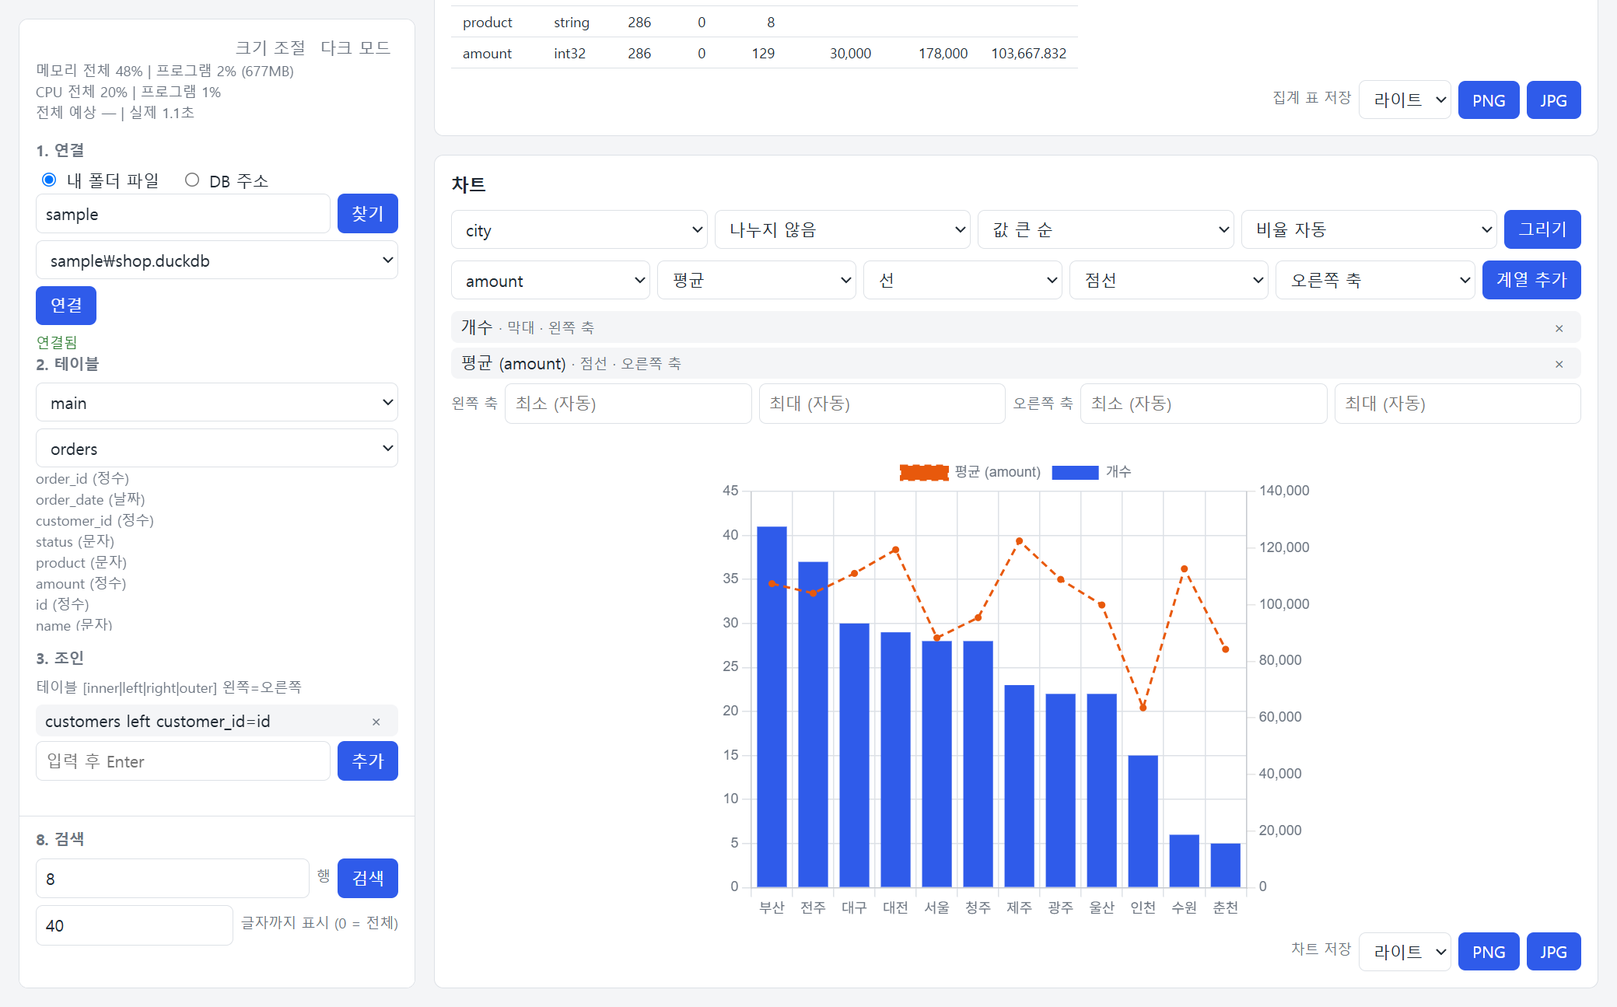
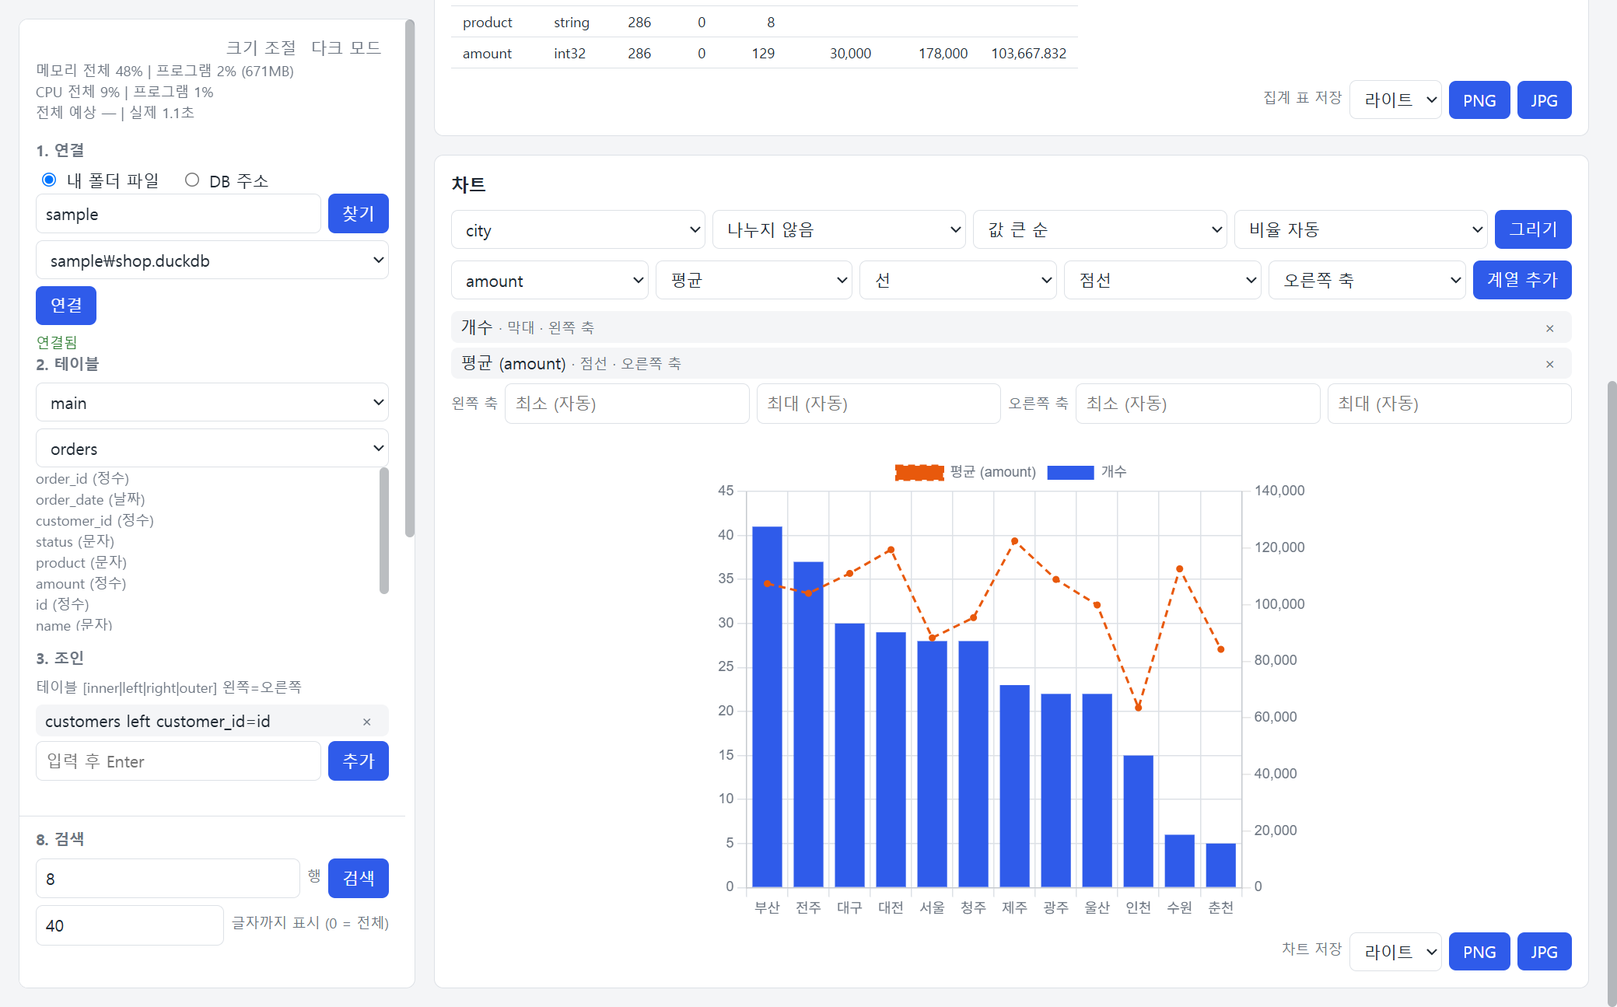
코드 정리, 스크롤바 전역 규칙, 고르는 칸의 목록 직접 그리기
- parse.py: 쓰이지 않던 설명 글자 반환 제거, 그 밖의 찌꺼기와 겹치는 코드 정리
- 스크롤바: 전역 규칙 하나로 어디서나 같은 얇은 반투명 막대(화살표 없음)
- 고르는 칸을 펼친 목록을 직접 그려 화면 모드의 색을 따르게 함, 글자를 쳐서 찾기
- requirements.txt: ibis의 polars 추가 항목과 겹치는 polars 줄 제거
- README 설명과 화면 그림 갱신

diff --git a/static/index.html b/static/index.html
@@ -63,8 +63,8 @@
   .hidden { display:none; }
   #flat { margin-top:6px; }
   #flat .row { align-items:center; margin-bottom:2px; }
-  #flat-list label, .checks label { display:block; white-space:nowrap; }
-  #flat-list input, .checks input { width:auto; }
+  #flat-list label { display:block; white-space:nowrap; }
+  #flat-list input { width:auto; }
   /* 카드 제목 줄: 제목 옆에 버튼과 고르는 칸, 그 오른쪽에 고른 것들(칩)이 한 줄로 놓인다. */
   .head { display:flex; flex-wrap:wrap; align-items:center; gap:8px; margin-bottom:10px; }
   .head h3 { margin:0; flex:none; }
@@ -98,15 +98,18 @@
   .chart-box { width:min(100%, calc(var(--chart, 400px) * var(--ratio, 16 / 9))); aspect-ratio:var(--ratio, 16 / 9); margin:0 auto; }
   .row.save select { width:auto; }
   .empty { color:var(--muted); }
-  /* 스크롤바: 프로그램 창이 내용 위에 겹쳐 그리고 스크롤할 때만 보여 준다(desktop.py). 여기서 모양을 정하면 겹쳐 그리지 않으므로,
-     그 기능이 꺼져 자리를 차지할 때만(.thin, 맨 아래 스크립트) 얇고 반투명하게, 화살표 버튼과 회색 바탕 없이 그린다. */
-  .thin, .thin * {
-    &::-webkit-scrollbar { width:8px; height:8px; }
-    &::-webkit-scrollbar-button { display:none; }
-    &::-webkit-scrollbar-track, &::-webkit-scrollbar-corner { background:transparent; }
-    &::-webkit-scrollbar-thumb { background:color-mix(in srgb, var(--text) 30%, transparent); border-radius:4px; }
-    &::-webkit-scrollbar-thumb:hover { background:color-mix(in srgb, var(--text) 50%, transparent); }
-  }
+  /* 고르는 칸을 펼친 목록. 창 엔진이 그리는 목록은 화면 모드의 색을 따르지 않아 직접 그린다(맨 아래 스크립트). */
+  .menu { position:fixed; z-index:100; background:var(--card); border:1px solid var(--line); border-radius:6px; padding:4px 0; overflow:auto; box-shadow:0 6px 18px rgb(0 0 0 / .25); }
+  .menu div { padding:5px 10px; white-space:nowrap; cursor:default; }
+  .menu div.now { color:var(--accent); }
+  .menu div.on { background:var(--bg); }
+  /* 스크롤바(전역): 어디서나 같은 모양. 얇고 반투명하며 화살표 버튼과 바탕이 없다.
+     창 엔진의 겹침 스크롤바는 마우스가 닿으면 화살표 달린 두꺼운 모양으로 바뀌고 스타일로 막을 수 없어, 모양을 직접 정한다. */
+  ::-webkit-scrollbar { width:8px; height:8px; }
+  ::-webkit-scrollbar-button { display:none; }
+  ::-webkit-scrollbar-track, ::-webkit-scrollbar-corner { background:transparent; }
+  ::-webkit-scrollbar-thumb { background:color-mix(in srgb, var(--text) 30%, transparent); border-radius:4px; }
+  ::-webkit-scrollbar-thumb:hover { background:color-mix(in srgb, var(--text) 50%, transparent); }
   @media (max-width:800px) { .layout { grid-template-columns:1fr; gap:16px; } .panel { position:static; max-height:none; } .grip-x { display:none; } }
 </style>
 </head>
@@ -328,7 +331,7 @@ async function timed(kind, fn) {
     if (rows && rates[kind]) mine.guess += rates[kind] * rows / 1e6;
     const out = await fn();
     if (rows) {
-      rates[kind] = Math.min(Math.max(Math.round((performance.now() - run.at) * 1e6 / rows), 1), 1e12);
+      rates[kind] = Math.min(Math.max(Math.round((performance.now() - run.at) * 1e6 / rows), 1), 1e12);  // 상한은 settings.py의 MAX_TIME과 같아야 한다.
       saveSetting({ ["time_" + kind]: rates[kind] });
     }
     return out;
@@ -347,10 +350,10 @@ document.querySelectorAll("input[name=kind]").forEach(r => r.onchange = () => {
   $("folder-box").classList.toggle("hidden", !folder);
   $("url-box").classList.toggle("hidden", folder);
 });
-// 체크 목록: box 안에 값마다 체크 칸을 만든다. keep에 든 값은 체크해 둔다.
-function checks(box, values, keep = []) {
+// 체크 목록: box 안에 값마다 체크 칸을 만든다. 모두 체크하지 않은 상태로 시작한다.
+function checks(box, values) {
   box.replaceChildren(...values.map(v => {
-    const label = document.createElement("label"), input = Object.assign(document.createElement("input"), { type: "checkbox", value: v, checked: keep.includes(v) });
+    const label = document.createElement("label"), input = Object.assign(document.createElement("input"), { type: "checkbox", value: v });
     label.append(input, " " + v);
     return label;
   }));
@@ -403,11 +406,13 @@ $("file").onchange = showFlat;
 $("flat-list").onchange = showFlat;
 $("flat-all").onclick = () => { flatBoxes().forEach(b => b.checked = true); showFlat(); };
 let connected = null;  // 지금 연결의 종류: "flat"(Parquet·CSV 파일), "other"(DuckDB 파일·DB 주소), 없으면 null
+// 한 줄씩 모은 입력(조인·기간·조건·정렬·표시 컬럼)을 모두 비우고 다시 그린다.
+function clearLists() { LISTS.forEach(k => { S[k] = []; renderList(k); }); }
 // 화면에 올라온 것(고른 테이블, 조건 등의 목록, 결과·집계·차트)을 비운다. 연결은 건드리지 않는다.
 function clearScreen() {
   S.base = $("base").value = "";
   S.cols = [];
-  LISTS.forEach(k => { S[k] = []; renderList(k); });
+  clearLists();
   $("cols").innerHTML = "";
   ["cx", "cy", "csplit", "bcol"].forEach(id => fill($(id), []));
   series = [];
@@ -477,7 +482,7 @@ $("schema").onchange = loadTables;
 $("base").onchange = async () => {
   S.base = $("base").value;
   $("bpick").classList.add("hidden");
-  LISTS.forEach(k => { S[k] = []; renderList(k); });
+  clearLists();
   await refreshColumns();
 };
 async function refreshColumns() {
@@ -589,8 +594,7 @@ document.querySelectorAll("input[name=cmode]").forEach(r => r.onchange = () => {
 showBuilder();
 
 // 8. 검색
-// 문자열을 최대 글자 수까지만 보여 주고, 잘린 값은 마우스를 올리면 전체가 보인다.
-// 값이 표에 보이는 글자와 전체 글자. 숫자는 자릿수 쉼표를 넣고, 문자열은 최대 글자 수에서 자른다.
+// 값이 표에 보이는 글자와 전체 글자(잘렸을 때만, 마우스를 올리면 보인다). 숫자는 자릿수 쉼표를 넣고, 문자열은 최대 글자 수에서 자른다.
 function shown(v) {
   if (typeof v === "number") return [v.toLocaleString(), ""];
   const s = String(v ?? ""), max = +$("maxlen").value;
@@ -668,14 +672,16 @@ function themeColors(theme) {
   root.dataset.theme = now;
   return colors;
 }
+// 최소와 최대를 둘 다 넣었는데 최소가 최대보다 작지 않은가
+const badRange = (min, max) => min !== "" && max !== "" && +min >= +max;
 // 세로축 범위: 넣은 쪽만 고정하고 비운 쪽은 자동. 최소가 최대보다 작지 않으면 그 축은 자동으로 두고 이유를 알린다.
 function axisRange(lo, hi) {
   const min = $(lo).value, max = $(hi).value;
-  if (min !== "" && max !== "" && +min >= +max) return {};
+  if (badRange(min, max)) return {};
   return { ...(min !== "" ? { min: +min } : {}), ...(max !== "" ? { max: +max } : {}) };
 }
 const rangeError = () => [["ymin", "ymax", "왼쪽"], ["y1min", "y1max", "오른쪽"]]
-  .filter(([lo, hi]) => $(lo).value !== "" && $(hi).value !== "" && +$(lo).value >= +$(hi).value)
+  .filter(([lo, hi]) => badRange($(lo).value, $(hi).value))
   .map(([, , side]) => `${side} 축의 최소는 최대보다 작아야 합니다.`).join(" ");
 ["ymin", "ymax", "y1min", "y1max"].forEach(id => $(id).oninput = () => { $("err-chart").textContent = rangeError(); drawChart(); });  // 다시 조회하지 않고 바로 반영
 function chartConfig(colors, options = {}) {
@@ -736,6 +742,8 @@ $("draw").onclick = () => busy($("draw"), async () => {
       d.more_splits ? `나눌 값이 많아 행이 많은 ${d.max_splits}개만 표시합니다.` : ""].filter(Boolean).join(" ");
   } catch (e) { $("err-chart").textContent = e.message; }
 });
+// 그림 종류(png, jpeg)에 맞는 파일 확장자
+const imageExt = type => type === "jpeg" ? "jpg" : "png";
 // 집계 표 내보내기: 표 전체를 고른 저장 모드의 색으로 그려 저장한다. 글자는 화면의 표와 같게 보인다(글자 수 제한 포함).
 document.querySelectorAll("[data-table]").forEach(b => b.onclick = () => {
   if (!last?.summary) { $("err-summary").textContent = "먼저 집계를 계산하세요."; return; }
@@ -766,7 +774,7 @@ document.querySelectorAll("[data-table]").forEach(b => b.onclick = () => {
     ctx.fillStyle = colors.line;
     ctx.fillRect(edge, y + height - 1, width, 1);
   });
-  download(out.toDataURL("image/" + b.dataset.table), "summary." + (b.dataset.table === "jpeg" ? "jpg" : "png"));
+  download(out.toDataURL("image/" + b.dataset.table), "summary." + imageExt(b.dataset.table));
   $("err-summary").textContent = "";
 });
 
@@ -782,10 +790,10 @@ document.querySelectorAll("[data-image]").forEach(b => b.onclick = () => {
   ctx.fillRect(0, 0, out.width, out.height);
   ctx.drawImage(copy, 0, 0);
   redrawn.destroy();
-  download(out.toDataURL("image/" + b.dataset.image), "chart." + (b.dataset.image === "jpeg" ? "jpg" : "png"));
+  download(out.toDataURL("image/" + b.dataset.image), "chart." + imageExt(b.dataset.image));
 });
 
-// 설정(화면 모드, 차트 비율, 차트 저장 모드): 바꾸면 서버가 설정 파일에 저장해 다음 실행 때도 쓴다.
+// 설정(화면 모드, 차트 비율, 그림 저장 모드, 따옴표 해석, 조건 입력 방식, 끌어서 조절한 크기, 직전 실행의 행당 시간): 바꾸면 서버가 설정 파일에 저장해 다음 실행 때도 쓴다.
 const saveSetting = changes => api("/api/settings", changes).catch(e => connMsg(e.message));
 function showTheme(theme) {
   document.documentElement.dataset.theme = theme;
@@ -836,11 +844,63 @@ document.querySelectorAll("[data-size]").forEach(grip => {
   grip.ondblclick = () => { root.removeProperty("--" + name); saveSetting({ [name]: 0 }); };
 });
 
-// 스크롤바가 자리를 차지하는지(겹쳐 그리는 기능이 꺼졌는지) 재어 보고, 그렇다면 얇은 스크롤바(.thin)로 바꾼다.
-const probe = document.body.appendChild(Object.assign(document.createElement("div"),
-  { style: "position:absolute; visibility:hidden; width:50px; height:50px; overflow:scroll" }));
-document.documentElement.classList.toggle("thin", probe.offsetWidth > probe.clientWidth);
-probe.remove();
+// 고르는 칸(select)의 목록을 직접 그린다. 값과 change 이벤트는 select가 그대로 맡고, 펼쳐지는 목록만 바꾼다.
+// 누르거나 Space·Enter·↑↓로 펼치고, 목록에서는 ↑↓로 옮기고 Enter로 고르고 Esc로 닫는다. 글자를 치면 그 글자로 시작하는(없으면 들어 있는) 항목으로 간다.
+const menuBox = document.body.appendChild(Object.assign(document.createElement("div"), { className: "menu hidden" }));
+let menuFor = null, menuAt = -1;  // 목록을 펼친 select와, 지금 가리키는 항목
+let typed = "", typedAt = 0;  // 찾으려고 친 글자들과 마지막으로 친 때. 0.7초 쉬면 새로 시작한다.
+function closeMenu() { menuBox.classList.add("hidden"); menuFor = null; }
+function pointMenu(i, scroll) {
+  menuAt = Math.min(Math.max(i, 0), menuBox.children.length - 1);
+  [...menuBox.children].forEach((item, k) => item.classList.toggle("on", k === menuAt));
+  if (scroll) menuBox.children[menuAt].scrollIntoView({ block: "nearest" });
+}
+function openMenu(sel) {
+  if (sel.disabled || !sel.options.length) return;
+  menuFor = sel;
+  menuBox.replaceChildren(...[...sel.options].map((o, i) => Object.assign(document.createElement("div"), { textContent: o.text, className: i === sel.selectedIndex ? "now" : "" })));
+  menuBox.classList.remove("hidden");
+  // 칸 아래에 펼치되, 아래가 좁고 위가 더 넓으면 위로 펼친다.
+  const r = sel.getBoundingClientRect(), below = innerHeight - r.bottom - 8, above = r.top - 8, up = below < Math.min(menuBox.scrollHeight, 160) && above > below;
+  Object.assign(menuBox.style, { left: r.left + "px", minWidth: r.width + "px", maxHeight: Math.min(300, up ? above : below) + "px",
+                                 top: up ? "" : r.bottom + 2 + "px", bottom: up ? innerHeight - r.top + 2 + "px" : "" });
+  pointMenu(sel.selectedIndex, true);
+}
+function pickMenu(i) {
+  const sel = menuFor;
+  closeMenu();
+  sel.focus();
+  if (i === sel.selectedIndex) return;
+  sel.selectedIndex = i;
+  sel.dispatchEvent(new Event("change", { bubbles: true }));
+}
+document.addEventListener("mousedown", e => {
+  const sel = e.target.closest("select");
+  if (sel) { e.preventDefault(); sel.focus(); menuFor === sel ? closeMenu() : openMenu(sel); }  // preventDefault: 창 엔진의 목록이 뜨지 않게
+  else if (!menuBox.contains(e.target)) closeMenu();
+});
+menuBox.onmousemove = e => { if (e.target.parentElement === menuBox) pointMenu([...menuBox.children].indexOf(e.target)); };
+menuBox.onclick = e => { if (e.target.parentElement === menuBox) pickMenu([...menuBox.children].indexOf(e.target)); };
+document.addEventListener("keydown", e => {
+  const open = [" ", "Enter", "ArrowDown", "ArrowUp", "F4"].includes(e.key), typing = Date.now() - typedAt < 700;
+  if (!menuFor) { if (open && e.target.matches("select")) { e.preventDefault(); openMenu(e.target); } return; }
+  if (e.key === "Tab") return closeMenu();
+  e.preventDefault();
+  if (e.key === "Escape") { const sel = menuFor; closeMenu(); sel.focus(); }
+  else if (e.key === "ArrowDown" || e.key === "ArrowUp") pointMenu(menuAt + (e.key === "ArrowDown" ? 1 : -1), true);
+  else if (e.key === "Enter" || (e.key === " " && !typing)) pickMenu(menuAt);
+  else if (e.key.length === 1 && !e.ctrlKey && !e.altKey && !e.metaKey) {
+    typed = (typing ? typed : "") + e.key.toLowerCase();
+    typedAt = Date.now();
+    const texts = [...menuBox.children].map(item => item.textContent.toLowerCase()), starts = texts.findIndex(text => text.startsWith(typed));
+    const found = starts >= 0 ? starts : texts.findIndex(text => text.includes(typed));
+    if (found >= 0) pointMenu(found, true);
+  }
+}, true);
+// 목록 밖이 스크롤되거나 창 크기가 바뀌면 칸과 어긋나므로 닫는다.
+document.addEventListener("scroll", e => { if (e.target !== menuBox) closeMenu(); }, true);
+addEventListener("resize", closeMenu);
+addEventListener("blur", closeMenu);
 </script>
 </body>
 </html>

diff --git a/parse.py b/parse.py
@@ -119,7 +119,7 @@ def parse_period(line, expr):
         # 날짜시간 컬럼에 끝을 날짜로만 쓰면 그날 끝까지 포함한다
         after = dtype.is_timestamp() and next_day(end)
         preds.append(expr[col] < after if after else expr[col] <= value)
-    return f"{col} {start or '처음'} ~ {end or '끝'}", preds
+    return preds
 
 
 def next_day(text):
@@ -131,14 +131,13 @@ def next_day(text):
 
 
 # 조건: CONDITION_GUIDE의 형식 중 하나. 한 줄에서 or로 나눈 조건은 하나만 맞아도 된다
-# 값을 '값'이나 "값"으로 감싸면 그 안의 or와 쉼표는 값의 일부다. 설명에는 따옴표를 벗긴 값을 쓴다
+# 값을 '값'이나 "값"으로 감싸면 그 안의 or와 쉼표는 값의 일부다
 # quotes가 False면 따옴표를 해석하지 않고 글자 그대로 찾는다(줄마다 화면에서 정한다)
 def parse_condition(line, expr, quotes=True):
     parts = split(OR_RE, line, quotes)
     if len(parts) == 1:
         return parse_one(line, expr, quotes)
-    descs, preds = zip(*(parse_one(p.strip(), expr, quotes) for p in parts))
-    return " or ".join(descs), functools.reduce(operator.or_, preds)
+    return functools.reduce(operator.or_, [parse_one(p.strip(), expr, quotes) for p in parts])
 
 
 def parse_one(line, expr, quotes=True):
@@ -146,31 +145,29 @@ def parse_one(line, expr, quotes=True):
     if m := NULL_RE.match(line):
         col, negate = m.groups()
         check_name(col, schema.names)
-        return f"{col} is {'not ' if negate else ''}null", expr[col].notnull() if negate else expr[col].isnull()
+        return expr[col].notnull() if negate else expr[col].isnull()
     if m := BETWEEN_RE.match(line):
         col, lo, hi = m.groups()
         check_name(col, schema.names)
         lo, hi = convert(schema[col], unquote(lo, quotes)), convert(schema[col], unquote(hi, quotes))
-        return f"{col} between {lo} and {hi}", expr[col].between(lo, hi)
+        return expr[col].between(lo, hi)
     if m := IN_RE.match(line):  # except는 in의 반대: 적은 값을 뺀다
         col, word, raw = m.groups()
         check_name(col, schema.names)
-        word = word.lower()
         values = [convert(schema[col], unquote(v, quotes)) for v in split(COMMA_RE, raw, quotes) if v.strip()]
-        pred = expr[col].isin(values) if word == "in" else expr[col].notin(values)
-        return f"{col} {word} ({', '.join(map(str, values))})", pred
+        return expr[col].isin(values) if word.lower() == "in" else expr[col].notin(values)
     if m := LIKE_RE.match(line):  # 포함 검색. 대소문자는 가리지 않는다
         col, raw = m.groups()
         check_name(col, schema.names)
         if not schema[col].is_string():
             raise ValueError("like는 문자 컬럼에만 쓸 수 있습니다.")
         raw = unquote(raw, quotes)
-        return f"{col} like {raw}", expr[col].lower().contains(raw.lower())
+        return expr[col].lower().contains(raw.lower())
     if m := COND_RE.match(line):
         col, op, raw = m.groups()
         check_name(col, schema.names)
         value = convert(schema[col], unquote(raw, quotes))
-        return f"{col} {op} {value}", OPS[op](expr[col], value)
+        return OPS[op](expr[col], value)
     raise ValueError(f"형식: {CONDITION_GUIDE}")
 
 
@@ -181,7 +178,7 @@ def parse_sort(line, expr):
     check_name(col, expr.columns)
     if how not in ("asc", "desc"):
         raise ValueError(f"형식: {SORT_GUIDE}")
-    return f"{col} {how}", expr[col].desc() if how == "desc" else expr[col].asc()
+    return expr[col].desc() if how == "desc" else expr[col].asc()
 
 
 # 표시 컬럼: "컬럼1, 컬럼2"
@@ -189,7 +186,7 @@ def parse_columns(line, expr):
     cols = [c.strip() for c in line.split(",") if c.strip()]
     for c in cols:
         check_name(c, expr.columns)
-    return ", ".join(cols), cols
+    return cols
 
 
 def apply(expr, preds, keys, cols):

diff --git a/app.py b/app.py
@@ -38,12 +38,12 @@ def predicate(cond, expr):
     """조건 하나를 Ibis 식으로. 문자열, 따옴표 해석을 끈 {"line": ..., "quotes": False},
     화면에서 or로 이은 묶음 {"any": [조건, ...]} 중 하나다. 묶음 안은 or, 조건끼리는 and."""
     if isinstance(cond, str):
-        return parse.parse_condition(cond, expr)[1]
+        return parse.parse_condition(cond, expr)
     if "any" in cond:
         if not cond["any"]:
             raise ValueError("or로 묶을 조건이 없습니다.")
         return functools.reduce(operator.or_, [predicate(c, expr) for c in cond["any"]])
-    return parse.parse_condition(cond["line"], expr, cond.get("quotes", True))[1]
+    return parse.parse_condition(cond["line"], expr, cond.get("quotes", True))
 
 
 def build(body, select=True):
@@ -57,10 +57,10 @@ def build(body, select=True):
         [parse.parse_join(line, tables) for line in body.get("joins", [])],
         get_table,
     )
-    preds = [p for line in body.get("periods", []) for p in parse.parse_period(line, expr)[1]]
+    preds = [p for line in body.get("periods", []) for p in parse.parse_period(line, expr)]
     preds += [predicate(cond, expr) for cond in body.get("conditions", [])]
-    keys = [parse.parse_sort(line, expr)[1] for line in body.get("sorts", [])]
-    cols = [c for line in body.get("columns", []) for c in parse.parse_columns(line, expr)[1]]
+    keys = [parse.parse_sort(line, expr) for line in body.get("sorts", [])]
+    cols = [c for line in body.get("columns", []) for c in parse.parse_columns(line, expr)]
     return parse.apply(expr, preds, keys, cols if select else [])
 
 

diff --git a/settings.py b/settings.py
@@ -9,7 +9,7 @@ PATH = Path(os.environ.get("APPDATA") or Path.home()) / "ibis_search" / "setting
 CHOICES = {
     "theme": ["light", "dark"],  # 화면 모드. 고른 적이 없으면 Windows 설정을 따른다.
     "ratio": ["auto", "square", "wide"],  # 차트 비율: 데이터 양에 따라 / 1:1 / 16:9
-    "image": ["light", "dark"],  # 차트 그림을 저장할 때의 모드
+    "image": ["light", "dark"],  # 차트와 집계 표를 그림으로 저장할 때의 모드
     "quotes": ["on", "off"],  # 조건을 넣을 때 따옴표 해석: 값을 감싸는 기호로 / 글자 그대로
     "cond": ["fields", "line"],  # 조건 입력 방식: 칸으로 선택 / 한 줄 입력
 }
@@ -17,8 +17,7 @@ CHOICES = {
 # 끌어서 조절한 크기(px): (최소, 최대). 화면(index.html)의 SIZES와 같아야 한다. 0을 저장하면 기본 크기로 돌아간다.
 SIZES = {"panel": (240, 640), "rows": (120, 1200), "summary": (120, 1200), "chart": (200, 1000)}
 
-
-# 직전 실행의 행당 시간(나노초/행). 작업 종류(검색·집계·차트·저장)마다 하나. 화면이 예상 시간을 구할 때 쓴다.
+# 직전 실행의 행당 시간(나노초/행). 작업 종류(검색·집계·차트·저장)마다 하나. 화면이 예상 시간을 구할 때 쓴다. 상한(MAX_TIME)은 화면(index.html)의 값과 같아야 한다.
 TIMES = ["time_search", "time_summary", "time_chart", "time_export"]
 MAX_TIME = 10**12
 

diff --git a/desktop.py b/desktop.py
@@ -1,5 +1,4 @@
 """검색 화면을 프로그램 창으로 연다. exe의 실행 파일이자 유일한 실행 방법."""
-import os
 import threading
 
 import webview
@@ -11,9 +10,6 @@ server = make_server("127.0.0.1", 0, app, threaded=True)  # 0: 비어 있는 포
 threading.Thread(target=server.serve_forever, daemon=True).start()
 
 webview.settings["ALLOW_DOWNLOADS"] = True  # 결과·차트 내보내기
-# 스크롤바를 내용 위에 겹쳐 그리고, 스크롤할 때만 보이게 한다(창을 만들기 전에 정해야 한다). 이미 있는 값 뒤에 덧붙인다.
-ARGS = "WEBVIEW2_ADDITIONAL_BROWSER_ARGUMENTS"
-os.environ[ARGS] = (os.environ.get(ARGS, "") + " --enable-features=OverlayScrollbar").strip()
 # 열쇠를 아는 이 창만 화면을 열 수 있다(브라우저로 주소만 열면 거부된다).
 webview.create_window("Ibis 검색", f"http://127.0.0.1:{server.server_port}/?key={KEY}", width=1400, height=900)
 webview.start()  # 창을 닫으면 여기서 끝나고, 서버 스레드도 함께 종료된다.

diff --git a/README.md b/README.md
@@ -338,9 +338,13 @@ status, amount
 
 ![크기 조절을 켠 화면](docs/screen-resize.png)
 
+### 고르는 칸
+
+고르는 칸을 누르면 목록이 펼쳐집니다. 목록이 펼쳐진 채로 글자를 치면 그 글자로 시작하는 항목으로 이동하고, 없으면 그 글자가 들어 있는 항목으로 이동합니다. 값이 많은 목록에서 씁니다. ↑↓로 옮기고 Enter로 고르며 Esc로 닫습니다.
+
 ### 스크롤바
 
-스크롤할 때만 내용 위에 반투명하게 나타납니다.
+얇고 반투명하며 화살표가 없습니다. 패널, 표, 창 어디서나 같은 모양입니다.
 
 ### 기억되는 설정
 
